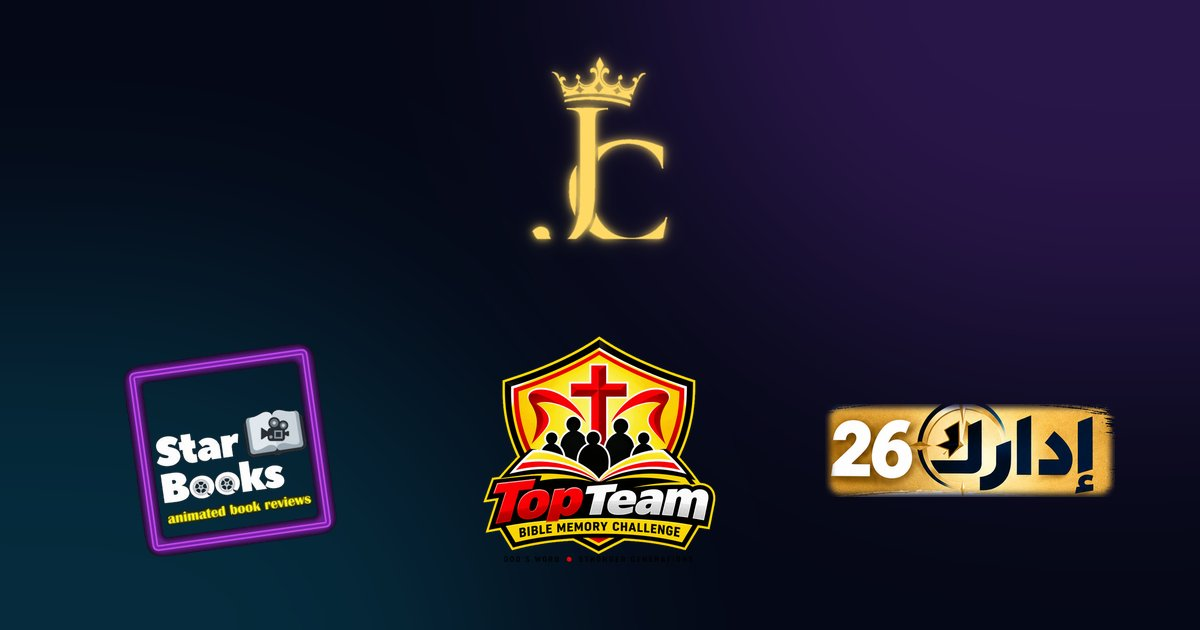
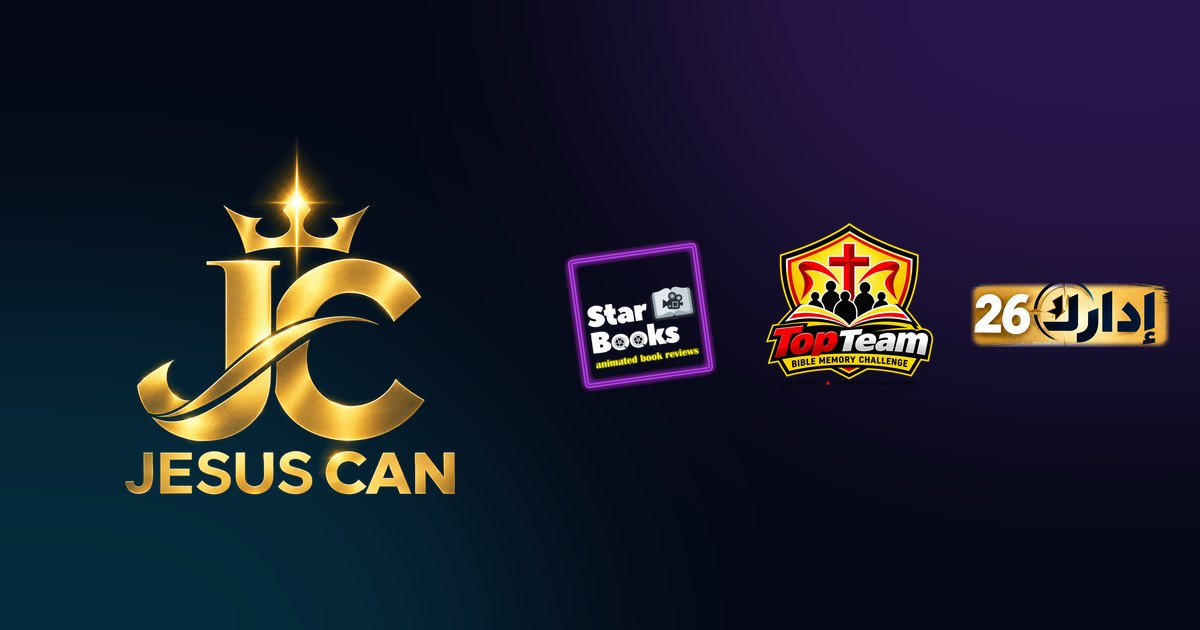
Add files via upload

Changed region(s): [[0.0925, 0.0905, 0.9867, 0.9048], [0.6783, 0.6333, 0.9558, 0.8143]]

diff --git a/index.html b/index.html
@@ -18,6 +18,7 @@
 <meta name="twitter:card" content="summary_large_image">
 <meta name="theme-color" content="#050816">
 <link rel="icon" type="image/png" href="assets/img/favicon.png">
+<link rel="apple-touch-icon" href="assets/img/apple-touch-icon.png">
 <link rel="preconnect" href="https://fonts.googleapis.com">
 <link rel="stylesheet" href="https://fonts.googleapis.com/css2?family=Cairo:wght@400;600;700;800;900&family=Poppins:wght@400;500;600;700;800&family=Amiri&display=swap">
 <link rel="stylesheet" href="assets/style.css">
@@ -27,7 +28,7 @@
 <header>
   <div class="wrap nav">
     <a class="brand" href="index.html" aria-label="JC — الصفحة الرئيسية">
-      <img class="brand-mark" src="assets/img/jc.webp" alt="شعار JC">
+      <img class="brand-mark" src="assets/img/jc-mark.webp" alt="شعار JC" width="42" height="46">
       <span><span class="brand-name lat" dir="ltr">JC <span class="brand-tag">Jesus Can</span></span><span class="brand-sub">تعلّم. انمُ. عِش إيمانك</span></span>
     </a>
     <ul class="menu" id="menu">
@@ -52,6 +53,7 @@
 <section class="hero">
   <div class="wrap hero-grid">
     <div class="hero-text">
+      <img class="hero-logo" src="assets/img/jc-logo.webp" alt="JC — Jesus Can" width="170" height="189">
       <span class="eyebrow">JC — Jesus Can · الشرق الأوسط</span>
       <h1>برامج تبني جيلًا <em>يعرف الكلمة</em> ويقود بها</h1>
       <p class="hero-lead">نصمّم برامج روحية وتعليمية للكنائس والمدارس في الشرق الأوسط — من فيديوهات «ستار بوكس» الكرتونية التي تلخّص الكتب المسيحية للشباب، إلى مسابقة «توب تيم» لحفظ الكتاب المقدس، إلى «إدراك» لإعداد قادة جدد للخدمة.</p>
@@ -149,10 +151,7 @@
   <div class="wrap">
     <div class="foot">
       <div>
-        <a class="brand" href="index.html" style="margin-bottom:14px">
-          <img class="brand-mark" src="assets/img/jc.webp" alt="">
-          <span class="brand-name lat" dir="ltr">JC — Jesus Can</span>
-        </a>
+        <a class="foot-logo" href="index.html" aria-label="JC — Jesus Can"><img src="assets/img/jc-logo.webp" alt="JC — Jesus Can" width="150" height="166" loading="lazy"></a>
         <p style="max-width:30em">برامج روحية وتعليمية تخدم الكنائس والمدارس في الشرق الأوسط.</p>
         <p style="margin-top:10px">راسلنا: <span class="lat" dir="ltr" style="color:var(--soft)">jc.mena.ministry@gmail.com</span></p>
       </div>

diff --git a/en/index.html b/en/index.html
@@ -17,6 +17,7 @@
 <meta name="twitter:card" content="summary_large_image">
 <meta name="theme-color" content="#050816">
 <link rel="icon" type="image/png" href="../assets/img/favicon.png">
+<link rel="apple-touch-icon" href="../assets/img/apple-touch-icon.png">
 <link rel="preconnect" href="https://fonts.googleapis.com">
 <link rel="stylesheet" href="https://fonts.googleapis.com/css2?family=Cairo:wght@400;600;700;800;900&family=Poppins:wght@400;500;600;700;800&family=Amiri&display=swap">
 <link rel="stylesheet" href="../assets/style.css">
@@ -26,7 +27,7 @@
 <header>
   <div class="wrap nav">
     <a class="brand" href="index.html" aria-label="JC — Home">
-      <img class="brand-mark" src="../assets/img/jc.webp" alt="JC logo">
+      <img class="brand-mark" src="../assets/img/jc-mark.webp" alt="JC logo" width="42" height="46">
       <span><span class="brand-name lat" dir="ltr">JC <span class="brand-tag">Jesus Can</span></span><span class="brand-sub">Learn. Grow. Live your faith.</span></span>
     </a>
     <ul class="menu" id="menu">
@@ -51,6 +52,7 @@
 <section class="hero">
   <div class="wrap hero-grid">
     <div class="hero-text">
+      <img class="hero-logo" src="../assets/img/jc-logo.webp" alt="JC — Jesus Can" width="170" height="189">
       <span class="eyebrow">JC — Jesus Can · Middle East</span>
       <h1>Programs that raise a generation that <em>knows the Word</em> and leads by it</h1>
       <p class="hero-lead">We design spiritual and educational programs for churches and schools across the Middle East — from Star Books animated videos that summarize Christian books for young people, to the Top Team Bible memory challenge, to Idrak, which equips a new generation of leaders.</p>
@@ -148,10 +150,7 @@
   <div class="wrap">
     <div class="foot">
       <div>
-        <a class="brand" href="index.html" style="margin-bottom:14px">
-          <img class="brand-mark" src="../assets/img/jc.webp" alt="">
-          <span class="brand-name lat" dir="ltr">JC — Jesus Can</span>
-        </a>
+        <a class="foot-logo" href="index.html" aria-label="JC — Jesus Can"><img src="../assets/img/jc-logo.webp" alt="JC — Jesus Can" width="150" height="166" loading="lazy"></a>
         <p style="max-width:30em">Spiritual and educational programs serving churches and schools across the Middle East.</p>
         <p style="margin-top:10px">Email us: <span class="lat" dir="ltr" style="color:var(--soft)">jc.mena.ministry@gmail.com</span></p>
       </div>

diff --git a/idrak.html b/idrak.html
@@ -18,6 +18,7 @@
 <meta name="twitter:card" content="summary_large_image">
 <meta name="theme-color" content="#050816">
 <link rel="icon" type="image/png" href="assets/img/favicon.png">
+<link rel="apple-touch-icon" href="assets/img/apple-touch-icon.png">
 <link rel="preconnect" href="https://fonts.googleapis.com">
 <link rel="stylesheet" href="https://fonts.googleapis.com/css2?family=Cairo:wght@400;600;700;800;900&family=Poppins:wght@400;500;600;700;800&family=Amiri&display=swap">
 <link rel="stylesheet" href="assets/style.css">
@@ -27,7 +28,7 @@
 <header>
   <div class="wrap nav">
     <a class="brand" href="index.html" aria-label="JC — الصفحة الرئيسية">
-      <img class="brand-mark" src="assets/img/jc.webp" alt="شعار JC">
+      <img class="brand-mark" src="assets/img/jc-mark.webp" alt="شعار JC" width="42" height="46">
       <span><span class="brand-name lat" dir="ltr">JC <span class="brand-tag">Jesus Can</span></span><span class="brand-sub">تعلّم. انمُ. عِش إيمانك</span></span>
     </a>
     <ul class="menu" id="menu">
@@ -143,10 +144,7 @@
   <div class="wrap">
     <div class="foot">
       <div>
-        <a class="brand" href="index.html" style="margin-bottom:14px">
-          <img class="brand-mark" src="assets/img/jc.webp" alt="">
-          <span class="brand-name lat" dir="ltr">JC — Jesus Can</span>
-        </a>
+        <a class="foot-logo" href="index.html" aria-label="JC — Jesus Can"><img src="assets/img/jc-logo.webp" alt="JC — Jesus Can" width="150" height="166" loading="lazy"></a>
         <p style="max-width:30em">برامج روحية وتعليمية تخدم الكنائس والمدارس في الشرق الأوسط.</p>
         <p style="margin-top:10px">راسلنا: <span class="lat" dir="ltr" style="color:var(--soft)">jc.mena.ministry@gmail.com</span></p>
       </div>

diff --git a/star-books.html b/star-books.html
@@ -18,6 +18,7 @@
 <meta name="twitter:card" content="summary_large_image">
 <meta name="theme-color" content="#050816">
 <link rel="icon" type="image/png" href="assets/img/favicon.png">
+<link rel="apple-touch-icon" href="assets/img/apple-touch-icon.png">
 <link rel="preconnect" href="https://fonts.googleapis.com">
 <link rel="stylesheet" href="https://fonts.googleapis.com/css2?family=Cairo:wght@400;600;700;800;900&family=Poppins:wght@400;500;600;700;800&family=Amiri&display=swap">
 <link rel="stylesheet" href="assets/style.css">
@@ -27,7 +28,7 @@
 <header>
   <div class="wrap nav">
     <a class="brand" href="index.html" aria-label="JC — الصفحة الرئيسية">
-      <img class="brand-mark" src="assets/img/jc.webp" alt="شعار JC">
+      <img class="brand-mark" src="assets/img/jc-mark.webp" alt="شعار JC" width="42" height="46">
       <span><span class="brand-name lat" dir="ltr">JC <span class="brand-tag">Jesus Can</span></span><span class="brand-sub">تعلّم. انمُ. عِش إيمانك</span></span>
     </a>
     <ul class="menu" id="menu">
@@ -125,10 +126,7 @@
   <div class="wrap">
     <div class="foot">
       <div>
-        <a class="brand" href="index.html" style="margin-bottom:14px">
-          <img class="brand-mark" src="assets/img/jc.webp" alt="">
-          <span class="brand-name lat" dir="ltr">JC — Jesus Can</span>
-        </a>
+        <a class="foot-logo" href="index.html" aria-label="JC — Jesus Can"><img src="assets/img/jc-logo.webp" alt="JC — Jesus Can" width="150" height="166" loading="lazy"></a>
         <p style="max-width:30em">برامج روحية وتعليمية تخدم الكنائس والمدارس في الشرق الأوسط.</p>
         <p style="margin-top:10px">راسلنا: <span class="lat" dir="ltr" style="color:var(--soft)">jc.mena.ministry@gmail.com</span></p>
       </div>

diff --git a/top-team.html b/top-team.html
@@ -18,6 +18,7 @@
 <meta name="twitter:card" content="summary_large_image">
 <meta name="theme-color" content="#050816">
 <link rel="icon" type="image/png" href="assets/img/favicon.png">
+<link rel="apple-touch-icon" href="assets/img/apple-touch-icon.png">
 <link rel="preconnect" href="https://fonts.googleapis.com">
 <link rel="stylesheet" href="https://fonts.googleapis.com/css2?family=Cairo:wght@400;600;700;800;900&family=Poppins:wght@400;500;600;700;800&family=Amiri&display=swap">
 <link rel="stylesheet" href="assets/style.css">
@@ -27,7 +28,7 @@
 <header>
   <div class="wrap nav">
     <a class="brand" href="index.html" aria-label="JC — الصفحة الرئيسية">
-      <img class="brand-mark" src="assets/img/jc.webp" alt="شعار JC">
+      <img class="brand-mark" src="assets/img/jc-mark.webp" alt="شعار JC" width="42" height="46">
       <span><span class="brand-name lat" dir="ltr">JC <span class="brand-tag">Jesus Can</span></span><span class="brand-sub">تعلّم. انمُ. عِش إيمانك</span></span>
     </a>
     <ul class="menu" id="menu">
@@ -177,10 +178,7 @@
   <div class="wrap">
     <div class="foot">
       <div>
-        <a class="brand" href="index.html" style="margin-bottom:14px">
-          <img class="brand-mark" src="assets/img/jc.webp" alt="">
-          <span class="brand-name lat" dir="ltr">JC — Jesus Can</span>
-        </a>
+        <a class="foot-logo" href="index.html" aria-label="JC — Jesus Can"><img src="assets/img/jc-logo.webp" alt="JC — Jesus Can" width="150" height="166" loading="lazy"></a>
         <p style="max-width:30em">برامج روحية وتعليمية تخدم الكنائس والمدارس في الشرق الأوسط.</p>
         <p style="margin-top:10px">راسلنا: <span class="lat" dir="ltr" style="color:var(--soft)">jc.mena.ministry@gmail.com</span></p>
       </div>

diff --git a/privacy.html b/privacy.html
@@ -18,6 +18,7 @@
 <meta name="twitter:card" content="summary_large_image">
 <meta name="theme-color" content="#050816">
 <link rel="icon" type="image/png" href="assets/img/favicon.png">
+<link rel="apple-touch-icon" href="assets/img/apple-touch-icon.png">
 <link rel="preconnect" href="https://fonts.googleapis.com">
 <link rel="stylesheet" href="https://fonts.googleapis.com/css2?family=Cairo:wght@400;600;700;800;900&family=Poppins:wght@400;500;600;700;800&family=Amiri&display=swap">
 <link rel="stylesheet" href="assets/style.css">
@@ -27,7 +28,7 @@
 <header>
   <div class="wrap nav">
     <a class="brand" href="index.html" aria-label="JC — الصفحة الرئيسية">
-      <img class="brand-mark" src="assets/img/jc.webp" alt="شعار JC">
+      <img class="brand-mark" src="assets/img/jc-mark.webp" alt="شعار JC" width="42" height="46">
       <span><span class="brand-name lat" dir="ltr">JC <span class="brand-tag">Jesus Can</span></span><span class="brand-sub">تعلّم. انمُ. عِش إيمانك</span></span>
     </a>
     <ul class="menu" id="menu">
@@ -73,10 +74,7 @@
   <div class="wrap">
     <div class="foot">
       <div>
-        <a class="brand" href="index.html" style="margin-bottom:14px">
-          <img class="brand-mark" src="assets/img/jc.webp" alt="">
-          <span class="brand-name lat" dir="ltr">JC — Jesus Can</span>
-        </a>
+        <a class="foot-logo" href="index.html" aria-label="JC — Jesus Can"><img src="assets/img/jc-logo.webp" alt="JC — Jesus Can" width="150" height="166" loading="lazy"></a>
         <p style="max-width:30em">برامج روحية وتعليمية تخدم الكنائس والمدارس في الشرق الأوسط.</p>
         <p style="margin-top:10px">راسلنا: <span class="lat" dir="ltr" style="color:var(--soft)">jc.mena.ministry@gmail.com</span></p>
       </div>

diff --git a/en/idrak.html b/en/idrak.html
@@ -17,6 +17,7 @@
 <meta name="twitter:card" content="summary_large_image">
 <meta name="theme-color" content="#050816">
 <link rel="icon" type="image/png" href="../assets/img/favicon.png">
+<link rel="apple-touch-icon" href="../assets/img/apple-touch-icon.png">
 <link rel="preconnect" href="https://fonts.googleapis.com">
 <link rel="stylesheet" href="https://fonts.googleapis.com/css2?family=Cairo:wght@400;600;700;800;900&family=Poppins:wght@400;500;600;700;800&family=Amiri&display=swap">
 <link rel="stylesheet" href="../assets/style.css">
@@ -26,7 +27,7 @@
 <header>
   <div class="wrap nav">
     <a class="brand" href="index.html" aria-label="JC — Home">
-      <img class="brand-mark" src="../assets/img/jc.webp" alt="JC logo">
+      <img class="brand-mark" src="../assets/img/jc-mark.webp" alt="JC logo" width="42" height="46">
       <span><span class="brand-name lat" dir="ltr">JC <span class="brand-tag">Jesus Can</span></span><span class="brand-sub">Learn. Grow. Live your faith.</span></span>
     </a>
     <ul class="menu" id="menu">
@@ -142,10 +143,7 @@
   <div class="wrap">
     <div class="foot">
       <div>
-        <a class="brand" href="index.html" style="margin-bottom:14px">
-          <img class="brand-mark" src="../assets/img/jc.webp" alt="">
-          <span class="brand-name lat" dir="ltr">JC — Jesus Can</span>
-        </a>
+        <a class="foot-logo" href="index.html" aria-label="JC — Jesus Can"><img src="../assets/img/jc-logo.webp" alt="JC — Jesus Can" width="150" height="166" loading="lazy"></a>
         <p style="max-width:30em">Spiritual and educational programs serving churches and schools across the Middle East.</p>
         <p style="margin-top:10px">Email us: <span class="lat" dir="ltr" style="color:var(--soft)">jc.mena.ministry@gmail.com</span></p>
       </div>

diff --git a/en/star-books.html b/en/star-books.html
@@ -17,6 +17,7 @@
 <meta name="twitter:card" content="summary_large_image">
 <meta name="theme-color" content="#050816">
 <link rel="icon" type="image/png" href="../assets/img/favicon.png">
+<link rel="apple-touch-icon" href="../assets/img/apple-touch-icon.png">
 <link rel="preconnect" href="https://fonts.googleapis.com">
 <link rel="stylesheet" href="https://fonts.googleapis.com/css2?family=Cairo:wght@400;600;700;800;900&family=Poppins:wght@400;500;600;700;800&family=Amiri&display=swap">
 <link rel="stylesheet" href="../assets/style.css">
@@ -26,7 +27,7 @@
 <header>
   <div class="wrap nav">
     <a class="brand" href="index.html" aria-label="JC — Home">
-      <img class="brand-mark" src="../assets/img/jc.webp" alt="JC logo">
+      <img class="brand-mark" src="../assets/img/jc-mark.webp" alt="JC logo" width="42" height="46">
       <span><span class="brand-name lat" dir="ltr">JC <span class="brand-tag">Jesus Can</span></span><span class="brand-sub">Learn. Grow. Live your faith.</span></span>
     </a>
     <ul class="menu" id="menu">
@@ -124,10 +125,7 @@
   <div class="wrap">
     <div class="foot">
       <div>
-        <a class="brand" href="index.html" style="margin-bottom:14px">
-          <img class="brand-mark" src="../assets/img/jc.webp" alt="">
-          <span class="brand-name lat" dir="ltr">JC — Jesus Can</span>
-        </a>
+        <a class="foot-logo" href="index.html" aria-label="JC — Jesus Can"><img src="../assets/img/jc-logo.webp" alt="JC — Jesus Can" width="150" height="166" loading="lazy"></a>
         <p style="max-width:30em">Spiritual and educational programs serving churches and schools across the Middle East.</p>
         <p style="margin-top:10px">Email us: <span class="lat" dir="ltr" style="color:var(--soft)">jc.mena.ministry@gmail.com</span></p>
       </div>

diff --git a/en/top-team.html b/en/top-team.html
@@ -17,6 +17,7 @@
 <meta name="twitter:card" content="summary_large_image">
 <meta name="theme-color" content="#050816">
 <link rel="icon" type="image/png" href="../assets/img/favicon.png">
+<link rel="apple-touch-icon" href="../assets/img/apple-touch-icon.png">
 <link rel="preconnect" href="https://fonts.googleapis.com">
 <link rel="stylesheet" href="https://fonts.googleapis.com/css2?family=Cairo:wght@400;600;700;800;900&family=Poppins:wght@400;500;600;700;800&family=Amiri&display=swap">
 <link rel="stylesheet" href="../assets/style.css">
@@ -26,7 +27,7 @@
 <header>
   <div class="wrap nav">
     <a class="brand" href="index.html" aria-label="JC — Home">
-      <img class="brand-mark" src="../assets/img/jc.webp" alt="JC logo">
+      <img class="brand-mark" src="../assets/img/jc-mark.webp" alt="JC logo" width="42" height="46">
       <span><span class="brand-name lat" dir="ltr">JC <span class="brand-tag">Jesus Can</span></span><span class="brand-sub">Learn. Grow. Live your faith.</span></span>
     </a>
     <ul class="menu" id="menu">
@@ -176,10 +177,7 @@
   <div class="wrap">
     <div class="foot">
       <div>
-        <a class="brand" href="index.html" style="margin-bottom:14px">
-          <img class="brand-mark" src="../assets/img/jc.webp" alt="">
-          <span class="brand-name lat" dir="ltr">JC — Jesus Can</span>
-        </a>
+        <a class="foot-logo" href="index.html" aria-label="JC — Jesus Can"><img src="../assets/img/jc-logo.webp" alt="JC — Jesus Can" width="150" height="166" loading="lazy"></a>
         <p style="max-width:30em">Spiritual and educational programs serving churches and schools across the Middle East.</p>
         <p style="margin-top:10px">Email us: <span class="lat" dir="ltr" style="color:var(--soft)">jc.mena.ministry@gmail.com</span></p>
       </div>

diff --git a/en/privacy.html b/en/privacy.html
@@ -17,6 +17,7 @@
 <meta name="twitter:card" content="summary_large_image">
 <meta name="theme-color" content="#050816">
 <link rel="icon" type="image/png" href="../assets/img/favicon.png">
+<link rel="apple-touch-icon" href="../assets/img/apple-touch-icon.png">
 <link rel="preconnect" href="https://fonts.googleapis.com">
 <link rel="stylesheet" href="https://fonts.googleapis.com/css2?family=Cairo:wght@400;600;700;800;900&family=Poppins:wght@400;500;600;700;800&family=Amiri&display=swap">
 <link rel="stylesheet" href="../assets/style.css">
@@ -26,7 +27,7 @@
 <header>
   <div class="wrap nav">
     <a class="brand" href="index.html" aria-label="JC — Home">
-      <img class="brand-mark" src="../assets/img/jc.webp" alt="JC logo">
+      <img class="brand-mark" src="../assets/img/jc-mark.webp" alt="JC logo" width="42" height="46">
       <span><span class="brand-name lat" dir="ltr">JC <span class="brand-tag">Jesus Can</span></span><span class="brand-sub">Learn. Grow. Live your faith.</span></span>
     </a>
     <ul class="menu" id="menu">
@@ -72,10 +73,7 @@
   <div class="wrap">
     <div class="foot">
       <div>
-        <a class="brand" href="index.html" style="margin-bottom:14px">
-          <img class="brand-mark" src="../assets/img/jc.webp" alt="">
-          <span class="brand-name lat" dir="ltr">JC — Jesus Can</span>
-        </a>
+        <a class="foot-logo" href="index.html" aria-label="JC — Jesus Can"><img src="../assets/img/jc-logo.webp" alt="JC — Jesus Can" width="150" height="166" loading="lazy"></a>
         <p style="max-width:30em">Spiritual and educational programs serving churches and schools across the Middle East.</p>
         <p style="margin-top:10px">Email us: <span class="lat" dir="ltr" style="color:var(--soft)">jc.mena.ministry@gmail.com</span></p>
       </div>

diff --git a/admin.html b/admin.html
@@ -52,14 +52,15 @@
 <div class="bg-glow" aria-hidden="true"><span class="g1"></span><span class="g2"></span><span class="g3"></span></div>
 <header>
   <div class="wrap nav">
-    <a class="brand" href="index.html"><img class="brand-mark" src="assets/img/jc.webp" alt="شعار JC"><span><span class="brand-name">لوحة التحكم</span><span class="brand-sub">JC — Jesus Can</span></span></a>
+    <a class="brand" href="index.html"><img class="brand-mark" src="assets/img/jc-mark.webp" alt="شعار JC"><span><span class="brand-name">لوحة التحكم</span><span class="brand-sub">JC — Jesus Can</span></span></a>
     <button class="btn btn-line nav-cta hide" id="out" type="button" style="display:inline-flex">خروج</button>
   </div>
 </header>
 <main class="wrap adm">
 
   <form class="login" id="login" novalidate>
-    <h1 style="font-size:26px">دخول الإدارة</h1>
+    <img src="assets/img/jc-logo.webp" alt="JC — Jesus Can" width="140" height="155" style="margin-inline:auto">
+    <h1 style="font-size:26px;text-align:center">دخول الإدارة</h1>
     <p class="form-note">حساب إدارة موقع JC.</p>
     <label for="l-email">البريد الإلكتروني<input id="l-email" type="email" dir="ltr" autocomplete="username" required></label>
     <label for="l-pass">كلمة المرور<input id="l-pass" type="password" dir="ltr" autocomplete="current-password" required></label>

diff --git a/404.html b/404.html
@@ -14,11 +14,12 @@
 <div class="bg-glow" aria-hidden="true"><span class="g1"></span><span class="g2"></span><span class="g3"></span></div>
 <header>
   <div class="wrap nav">
-    <a class="brand" href="/"><img class="brand-mark" src="/assets/img/jc.webp" alt="شعار JC"><span><span class="brand-name lat" dir="ltr">JC <span class="brand-tag">Jesus Can</span></span><span class="brand-sub">تعلّم. انمُ. عِش إيمانك</span></span></a>
+    <a class="brand" href="/"><img class="brand-mark" src="/assets/img/jc-mark.webp" alt="شعار JC"><span><span class="brand-name lat" dir="ltr">JC <span class="brand-tag">Jesus Can</span></span><span class="brand-sub">تعلّم. انمُ. عِش إيمانك</span></span></a>
   </div>
 </header>
 <main class="wrap nf">
   <div>
+    <img src="/assets/img/jc-logo.webp" alt="JC — Jesus Can" width="150" height="166" style="margin:0 auto 10px">
     <b>404</b>
     <h1 style="font-size:28px;margin-block:10px 8px">الصفحة دي مش موجودة</h1>
     <p class="muted" lang="en" dir="ltr" style="font-family:var(--lat)">This page doesn’t exist.</p>
